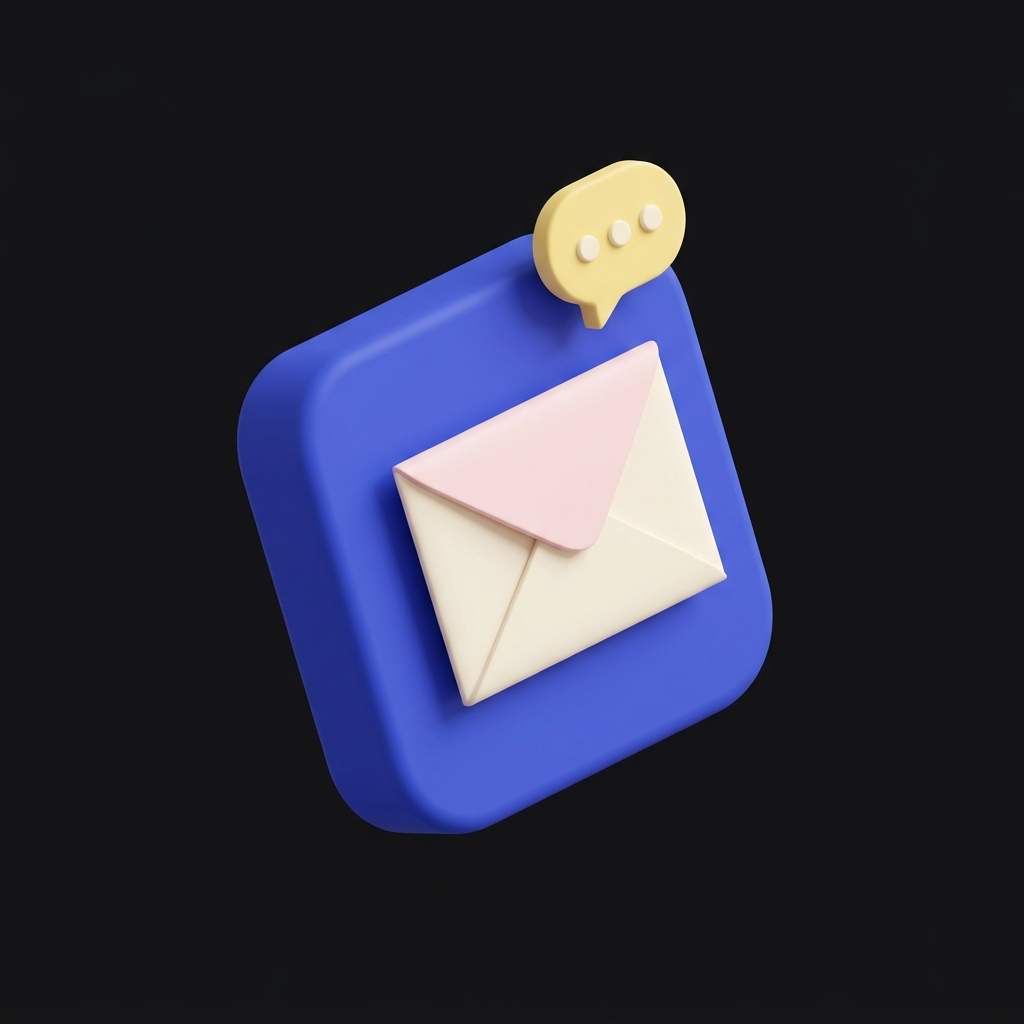
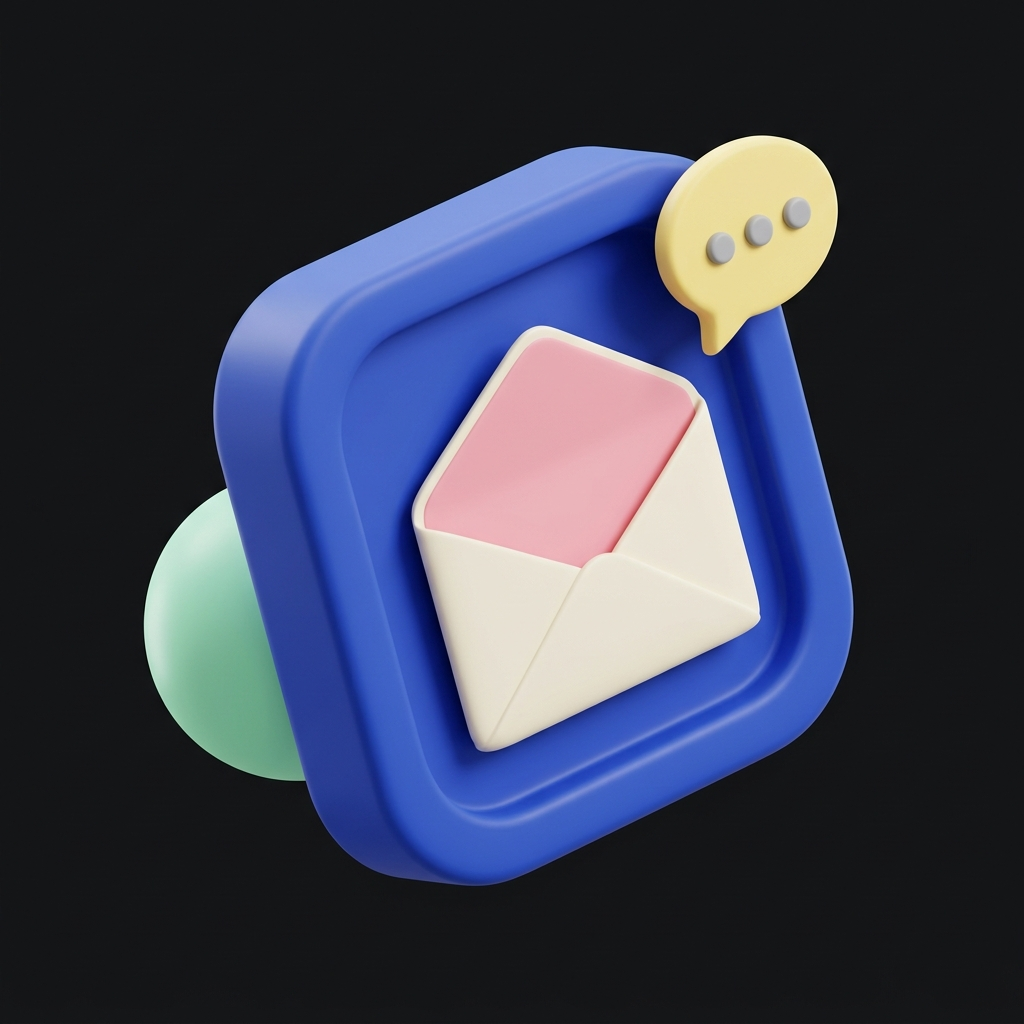
feat(ui): implement exact 3D squircle envelope card with mint sphere, cream envelope, and chat bubble matching Plink Section 3

Changed region(s): [[0.125, 0.125, 0.8438, 0.875]]

diff --git a/frontend/components/landing/ChannelSection.tsx b/frontend/components/landing/ChannelSection.tsx
@@ -1,14 +1,14 @@
 "use client";
 
-import Image from "next/image";
 import { motion } from "framer-motion";
+import { Envelope3DCard } from "./Envelope3DCard";
 
 export function ChannelSection() {
   return (
     <section className="relative w-full bg-[#111111] text-white py-24 sm:py-32 lg:py-36 px-6 sm:px-12 lg:px-16 overflow-hidden">
       <div className="max-w-6xl mx-auto w-full grid grid-cols-1 lg:grid-cols-12 gap-10 lg:gap-16 items-center">
         
-        {/* Left Column: 3D Envelope Illustration */}
+        {/* Left Column: 3D Squircle Envelope Card */}
         <motion.div 
           initial={{ opacity: 0, x: -30 }}
           whileInView={{ opacity: 1, x: 0 }}
@@ -16,14 +16,7 @@ export function ChannelSection() {
           transition={{ duration: 0.7, ease: "easeOut" }}
           className="lg:col-span-5 flex justify-center lg:justify-end"
         >
-          <div className="relative w-full max-w-[340px] sm:max-w-[400px] aspect-square rounded-3xl overflow-hidden animate-float">
-            <Image
-              src="/images/envelope-3d.jpg"
-              alt="3D envelope tile illustration with message bubble"
-              fill
-              className="object-contain"
-            />
-          </div>
+          <Envelope3DCard size="lg" />
         </motion.div>
 
         {/* Right Column: Left-Aligned Text */}

diff --git a/frontend/components/landing/Envelope3DCard.tsx b/frontend/components/landing/Envelope3DCard.tsx
@@ -1,0 +1,43 @@
+"use client";
+
+import Image from "next/image";
+import { motion } from "framer-motion";
+
+interface Envelope3DCardProps {
+  className?: string;
+  size?: "sm" | "md" | "lg";
+}
+
+export function Envelope3DCard({ className = "", size = "lg" }: Envelope3DCardProps) {
+  const sizeMap = {
+    sm: "max-w-[240px]",
+    md: "max-w-[320px]",
+    lg: "max-w-[420px]",
+  };
+
+  return (
+    <div className={`relative flex items-center justify-center ${className}`}>
+      {/* Soft Ambient Radial Back-glow */}
+      <div 
+        className="absolute inset-0 pointer-events-none opacity-30 blur-2xl"
+        style={{
+          background: "radial-gradient(circle at 40% 60%, rgba(52, 211, 153, 0.25) 0%, rgba(59, 108, 246, 0.2) 45%, transparent 70%)"
+        }}
+      />
+
+      <motion.div
+        animate={{ y: [-4, 6, -4], rotate: [-0.5, 0.5, -0.5] }}
+        transition={{ duration: 6, repeat: Infinity, ease: "easeInOut" }}
+        className={`relative w-full ${sizeMap[size]} aspect-square rounded-3xl overflow-hidden select-none`}
+      >
+        <Image
+          src="/images/envelope-3d.jpg"
+          alt="3D Royal Blue Squircle Envelope Card with Chat Bubble"
+          fill
+          priority
+          className="object-contain"
+        />
+      </motion.div>
+    </div>
+  );
+}

diff --git a/frontend/components/landing/index.ts b/frontend/components/landing/index.ts
@@ -8,3 +8,4 @@ export * from "./MethodsSection";
 export * from "./FinalCTA";
 export * from "./Footer";
 export * from "./FloatingCoin";
+export * from "./Envelope3DCard";
